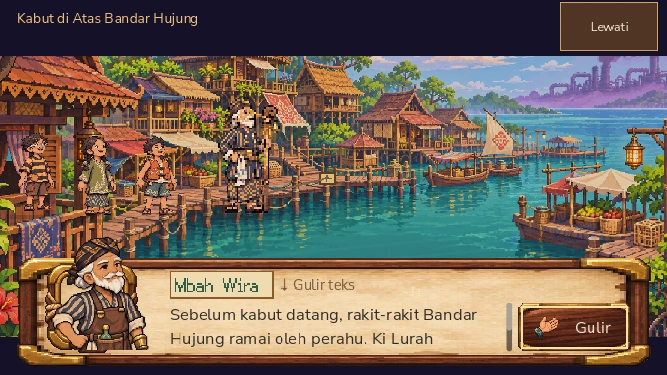
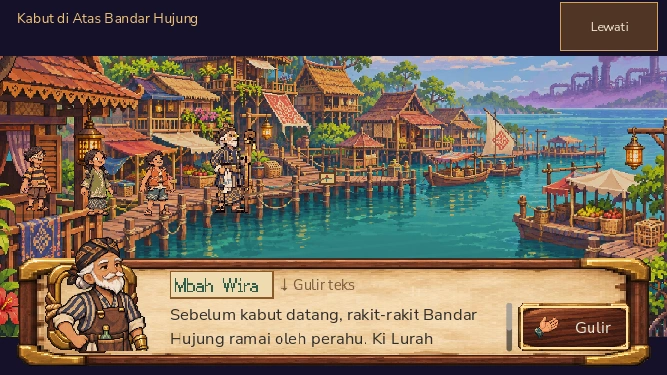
docs: replace oversized harbor cutscene proof

diff --git a/docs/reviews/cutscene-focal-stage-2026-11-18.md b/docs/reviews/cutscene-focal-stage-2026-11-18.md
@@ -1,12 +1,12 @@
 # Phase 1 focal cutscene staging — 18 November 2026
 
-Status: **local visual candidate for integrator review**, source commit `cb88ff0bd5055cfa085b13430d726d42f9000c9f` on `work/cutscene-focal-scale-20261118`; not merged, pushed, exported, or staged by this package. This addresses the first row of the [moodboard gap audit](moodboard-gap-audit-2026-11-18.md), not the entire moodboard target.
+Status: **local visual candidate for integrator review**, source commits `cb88ff0bd5055cfa085b13430d726d42f9000c9f` and corrective `a3ea1520f41254f0787092199233094424bc65b6` on `work/cutscene-focal-scale-20261118`; not merged, pushed, exported, or staged by this package. This addresses the first row of the [moodboard gap audit](moodboard-gap-audit-2026-11-18.md), not the entire moodboard target.
 
-The prologue harbor lesson kept Ki Lurah at the same visual weight as the children, despite his teaching action. The first dive started with Nala already small in the jump shot. The victory dock lined up seven supporters at nearly one depth. `CinematicActionLayer.gd` now holds the opening wide harbor composition, then enlarges Ki Lurah on the existing painted pier while the children settle farther left. The dive begins with a readable near-deck Nala before blending into the original backflip path. The victory dock brings Nala and Beno to distinct near-stage marks and staggers the children and residents in depth. The same approved source atlases and nearest-pixel sampling are used; no new raster, external generator, dialogue, reward, or gameplay rule was introduced.
+The prologue harbor lesson kept Ki Lurah at the same visual weight as the children, despite his teaching action. The first dive started with Nala already small in the jump shot. The victory dock lined up seven supporters at nearly one depth. `CinematicActionLayer.gd` now holds the opening wide harbor composition, then brings Ki Lurah to a 2.35× native-scale mark on the existing painted pier while the children settle farther left at 1.72×. The teacher is differentiated by blocking and the compass pointer rather than a giant sprite. The dive begins with a readable near-deck Nala before blending into the original backflip path. The victory dock brings Nala and Beno to distinct near-stage marks and staggers the children and residents in depth. The same approved source atlases and nearest-pixel sampling are used; no new raster, external generator, dialogue, reward, or gameplay rule was introduced.
 
-Original-size Godot 4.7.2 Compatibility review at 667×375 and 844×390 inspected entry, intermediate, and settled frames. The first harbor attempt placed Lurah over water and was corrected **before commit** by keeping his foot point on the painted pier and shifting him left. The final captures show the teacher's feet at the pier edge, dive Nala on the boat before the turn, and victory Nala on the sampan with Beno on the adjacent deck. Actors stay between the title/skip controls and the dialogue panel. The result improves focal hierarchy, but the harbor actor still touches the narrow pier edge, and the painted plate plus 64-pixel atlas limits the possible close-up detail. A source-pixel close pose or plate with a wider near-pier tread would be needed for a tighter close shot. This package does not establish full visual parity or physical-device animation/performance.
+Original-size Godot 4.7.2 Compatibility review at 667×375 and 844×390 inspected entry, intermediate, and settled frames. The initial 3.04× harbor candidate in `cb88ff0` was rejected by the integrator: Ki Lurah looked giant and stood partly past the pier edge. Corrective commit `a3ea152` limits him to 2.35×, moves his foot mark to x=34% on the painted pier, and keeps the children visibly behind. The final 667×375 and 844×390 captures show his feet on the pier, dive Nala on the boat before the turn, and victory Nala on the sampan with Beno on the adjacent deck. Actors stay between the title/skip controls and the dialogue panel. The harbor gain is deliberately modest, and the painted plate plus 64-pixel atlas still limit close-up detail. A source-pixel close pose or plate with a wider near-pier tread would be needed for a tighter close shot. This package does not establish full visual parity or physical-device animation/performance.
 
-Curated evidence (12 WebP files, 1,337,926 bytes):
+Curated evidence (12 WebP files, 1,338,004 bytes; harbor frames replaced after the correction):
 
 | Beat | Entry | Turn | Settled, 667×375 | Settled, 844×390 |
 | --- | --- | --- | --- | --- |
@@ -14,6 +14,6 @@ Curated evidence (12 WebP files, 1,337,926 bytes):
 | First dive | [frame](../visual/cutscene-focal-stage-20261118/first_dive-01-t0-667x375.webp) | [frame](../visual/cutscene-focal-stage-20261118/first_dive-01-t1-667x375.webp) | [frame](../visual/cutscene-focal-stage-20261118/first_dive-01-t2-667x375.webp) | [frame](../visual/cutscene-focal-stage-20261118/first_dive-01-t2-844x390.webp) |
 | Victory dock | [frame](../visual/cutscene-focal-stage-20261118/victory-03-t0-667x375.webp) | [frame](../visual/cutscene-focal-stage-20261118/victory-03-t1-667x375.webp) | [frame](../visual/cutscene-focal-stage-20261118/victory-03-t2-667x375.webp) | [frame](../visual/cutscene-focal-stage-20261118/victory-03-t2-844x390.webp) |
 
-The native fixture `CINEMATIC_CAPTURE=1 Godot --rendering-method gl_compatibility --path client-godot --script res://../scripts/tests/phase-one-hero-staging.gd` passed **196 checks and 308 captures** on the first full render. After the harbor foot correction, two filtered native reruns each passed **134 checks and 122 captures**. The second cold editor import had no `SCRIPT ERROR`, `ERROR:`, or parse error. `git diff --check` passed. The first cold import emitted temporary missing-font import errors, then generated the imports; the clean repeat and native runs are the relevant verdict. Native captures are Godot/Metal, not browser or Samsung S23 proof. Root integrator must run combined world/typecheck/test/build and source/PCK-pinned browser replay before staging.
+The native fixture `CINEMATIC_CAPTURE=1 Godot --rendering-method gl_compatibility --path client-godot --script res://../scripts/tests/phase-one-hero-staging.gd` passed **196 checks and 308 captures** on the first full render. After the rejected overscale attempt, four filtered native reruns each passed **134 checks and 122 captures**, including the final bounded-scale pass. The second cold editor import had no `SCRIPT ERROR`, `ERROR:`, or parse error. `git diff --check` passed. The first cold import emitted temporary missing-font import errors, then generated the imports; the clean repeat and native runs are the relevant verdict. Native captures are Godot/Metal, not browser or Samsung S23 proof. Root integrator must run combined world/typecheck/test/build and source/PCK-pinned browser replay before staging.
 
 Tools actually used: project-owned Godot `4.7.2.stable.official.ed1daf0bf` Compatibility renderer and `cwebp 1.6.0` for proof images. Source art: existing project-owned `npc-facing-v2`, `village-expansion-v1`, and `player-gait` atlases; their provenance remains in [asset provenance](../assets/provenance.md). The owner's moodboard image was not copied. Complete lossless native PNGs remain under ignored `artifacts/godot/phase-one-character-closeup/` in the authoring worktree; the curated WebP copies above are the committed review evidence.
